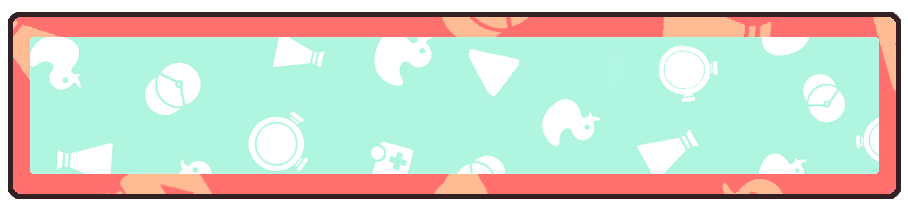
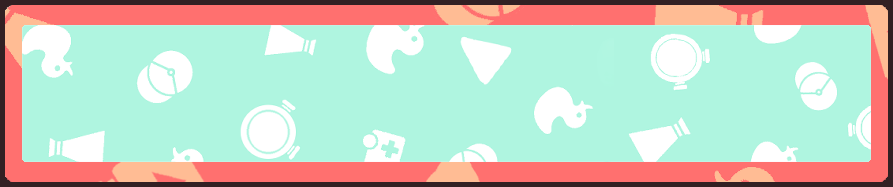
fixes

diff --git a/src/assets/css/style.css b/src/assets/css/style.css
@@ -415,18 +415,22 @@ canvas
 
 #pond-ui
 {
-    position:       fixed;
-    z-index:        2;
-    /*background: url("/src/assets/images/ui/subaru_uitest_1.png") no-repeat;*/
-    bottom:         5vh;
-    left:           30%;
-    display:        flex;
+	    position: fixed;
+    z-index: 2;
+    bottom: 2vh;
+    /* left: 50%; */
+    display: flex;
     flex-direction: row;
-    width:          70%;
-    max-width:      1262px;
-    height:         20%;
-    max-height:     207px;
-
+    width: 100vw;
+    max-width: initial;
+    height: 100px;
+    max-height: 20vh;
+    /* right: 50%; */
+    text-align: center;
+    left: 0;
+    right: 0;
+    margin: auto;
+    justify-content: center;
 
 }
 
@@ -441,16 +445,18 @@ canvas
 
 */
 
-.inner-ui
+#pond-ui .inner-ui
 {
-
-    width:            60%;
-    max-width:        908px;
-    height:           100%;
-    max-height:       207px;
-    background:       url("/src/assets/images/ui/PondNumBoxcropped_horizontal.png") no-repeat;
-    background-color: #AFF5E0;
-    background-size:  100% 100%;
+	height: 9vh;
+    width: calc(10vh * 4.38);
+    background: url("/src/assets/images/ui/PondNumBoxcropped_horizontal.png") no-repeat;
+    background-color: black;
+    background-size: 100% 100%;
+ box-shadow: 0px 0px 22px 12px rgba(0,0,0,0.4);
+-webkit-box-shadow: 0px 0px 22px 12px rgba(0,0,0,0.4);
+-moz-box-shadow: 0px 0px 22px 12px rgba(0,0,0,0.4);
+    overflow: hidden;
+    border-radius: 3px;
 }
 
 .carousel
@@ -459,17 +465,21 @@ canvas
     width:         100%;
     padding-right: 20px;
     padding-left:  20px;
+	box-sizing:border-box;
 }
 
 .carousel-cell
 {
-    display:           flex;
-    flex-direction:    row;
-    width:             100%;
-    height:            136px;
-    margin:            30px 30px;
+	display: flex;
+    flex-direction: row;
+    width: 100%;
+    height: 9vh;
+    margin: 0;
     counter-increment: carousel-cell;
-    background:        transparent;
+    background: transparent;
+    flex-wrap: wrap;
+    align-items: center;
+	justify-content:space-between;
 }
 
 /*.carousel-cell {
@@ -493,23 +503,33 @@ canvas
 
 .button--next, .button--previous
 {
-    overflow:        hidden;
-    width:           177px;
-    height:          177px;
-    border:          none;
-    background:      transparent;
+       overflow: hidden;
+    width: 13vh;
+    height: 13vh;
+    border: none;
+    background: transparent;
     background-size: 100% 100%;
+	background-repeat:no-repeat;
+	background-position:center;
+    /* zoom: 1.4; */
+    position: relative;
+    top: -2vh;
+	transition:0.5s;
+}
 
+.button--next:hover, .button--previous:hover{
+	background-size:80%;
 }
 
 .button--next
 {
-    background-image: url(../images/ui/PondArrowButtonNext.png);
+    background-image: url(../images/ui/PondArrowButtonshadow.png);
 }
 
 .button--previous
 {
-    background-image: url(../images/ui/PondArrowButtonPrev.png);
+    background-image: url(../images/ui/PondArrowButtonshadow.png);
+	transform:rotateY(180deg);
 }
 
 .load-pond:disabled
@@ -520,28 +540,30 @@ canvas
 
 .load-pond
 {
-    /*width:             104px;*/
-    /*height:            104px;*/
-    /*background-image:  url(../images/ui/PondSelectCircle.png);*/
-    /*background-repeat: no-repeat;*/
-    display:          inline-block;
-    width:            104px;
-    height:           104px;
-    margin:           25px;
-    border-radius:    50%;
-    background-color: #FF706F;
-
+	display: inline-block;
+    border-radius: 50%;
+    /*background-color: #FF706F;*/
+	border:none;
+	background:transparent;
+    box-sizing: border-box;
+    flex: 0 1 50px;
+    width: 50px;
+    height: 50px;
+	transition:0.5s;
+	cursor:pointer;
+	color:#FF706F;
+	text-shadow: 0px 0px 9px rgba(150, 150, 150, 1);
 }
 
 .load-pond:hover
 {
-    border-color: #FCD73F;
+	color:#ffbc94;
 }
 
 .load-pond.selectedPond
 {
-    background-color: #FCD73F;
-
+    background-color: #FF706F;
+	color:#ffbc94;
 
 }
 
@@ -1290,7 +1312,7 @@ svg path
     width:             80vw;
     height:            calc(80vw * 0.55);
 
-    max-height:        80vh;
+   
 
     padding:           70px;
     background-color:  transparent;
